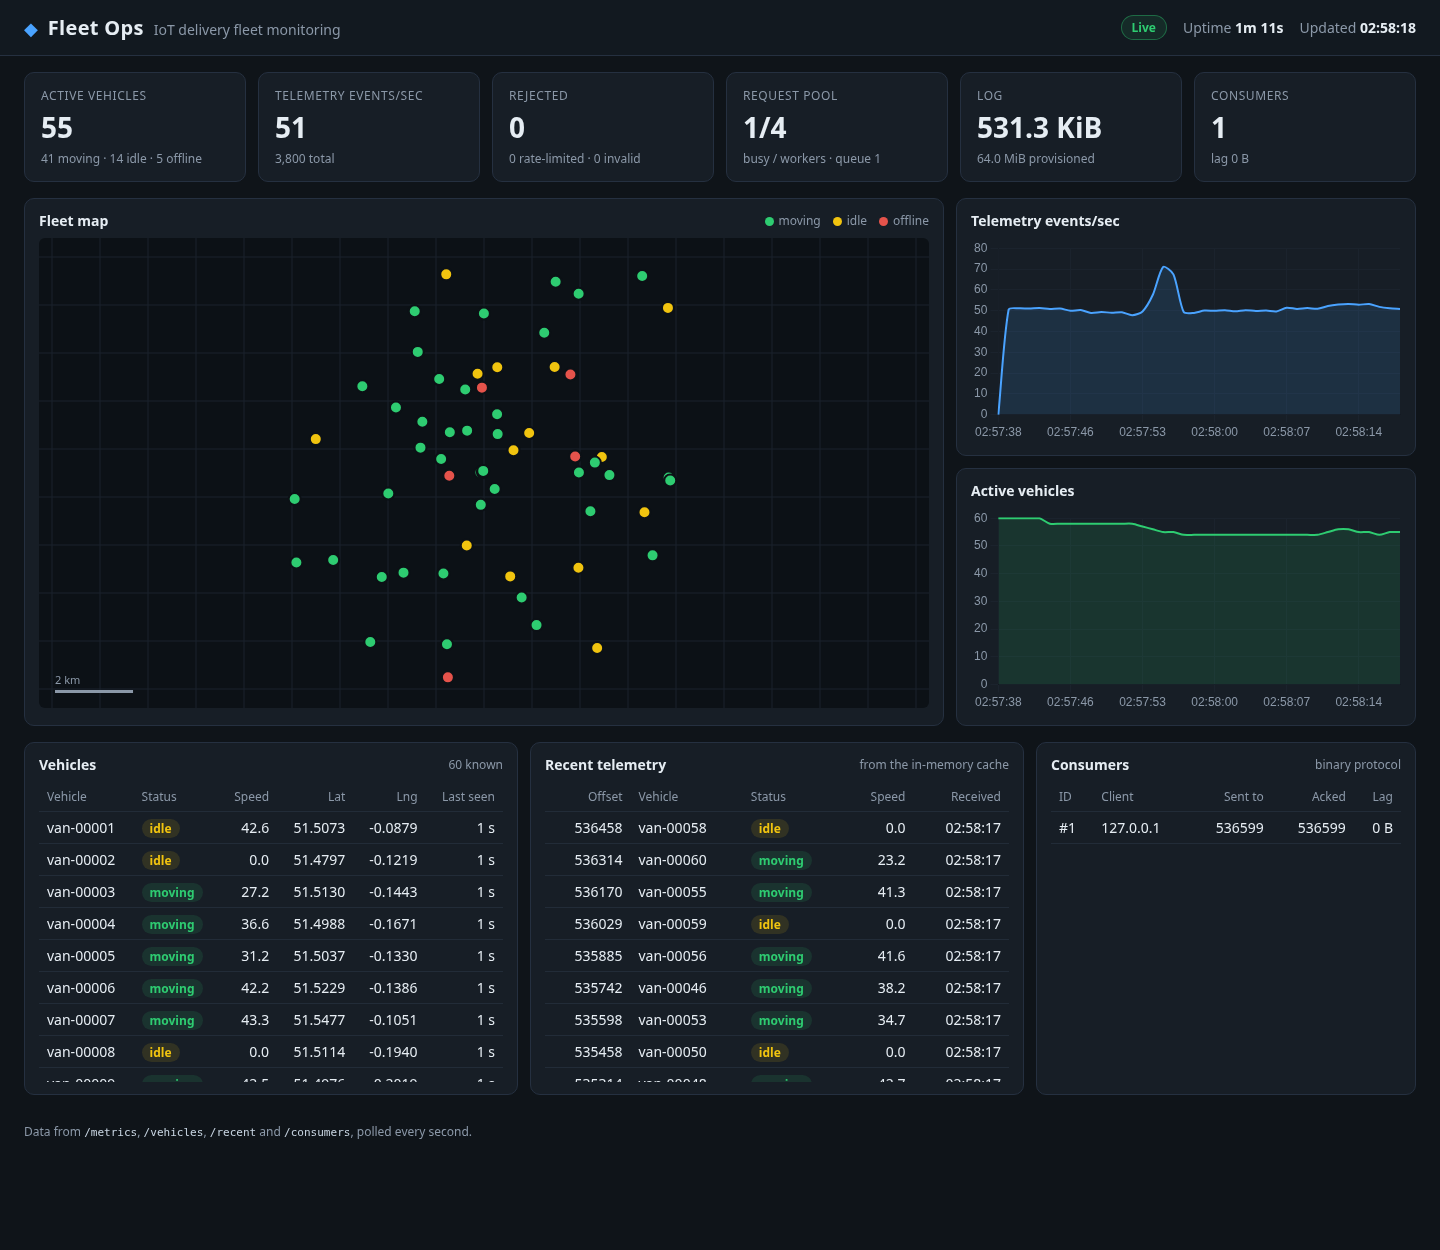
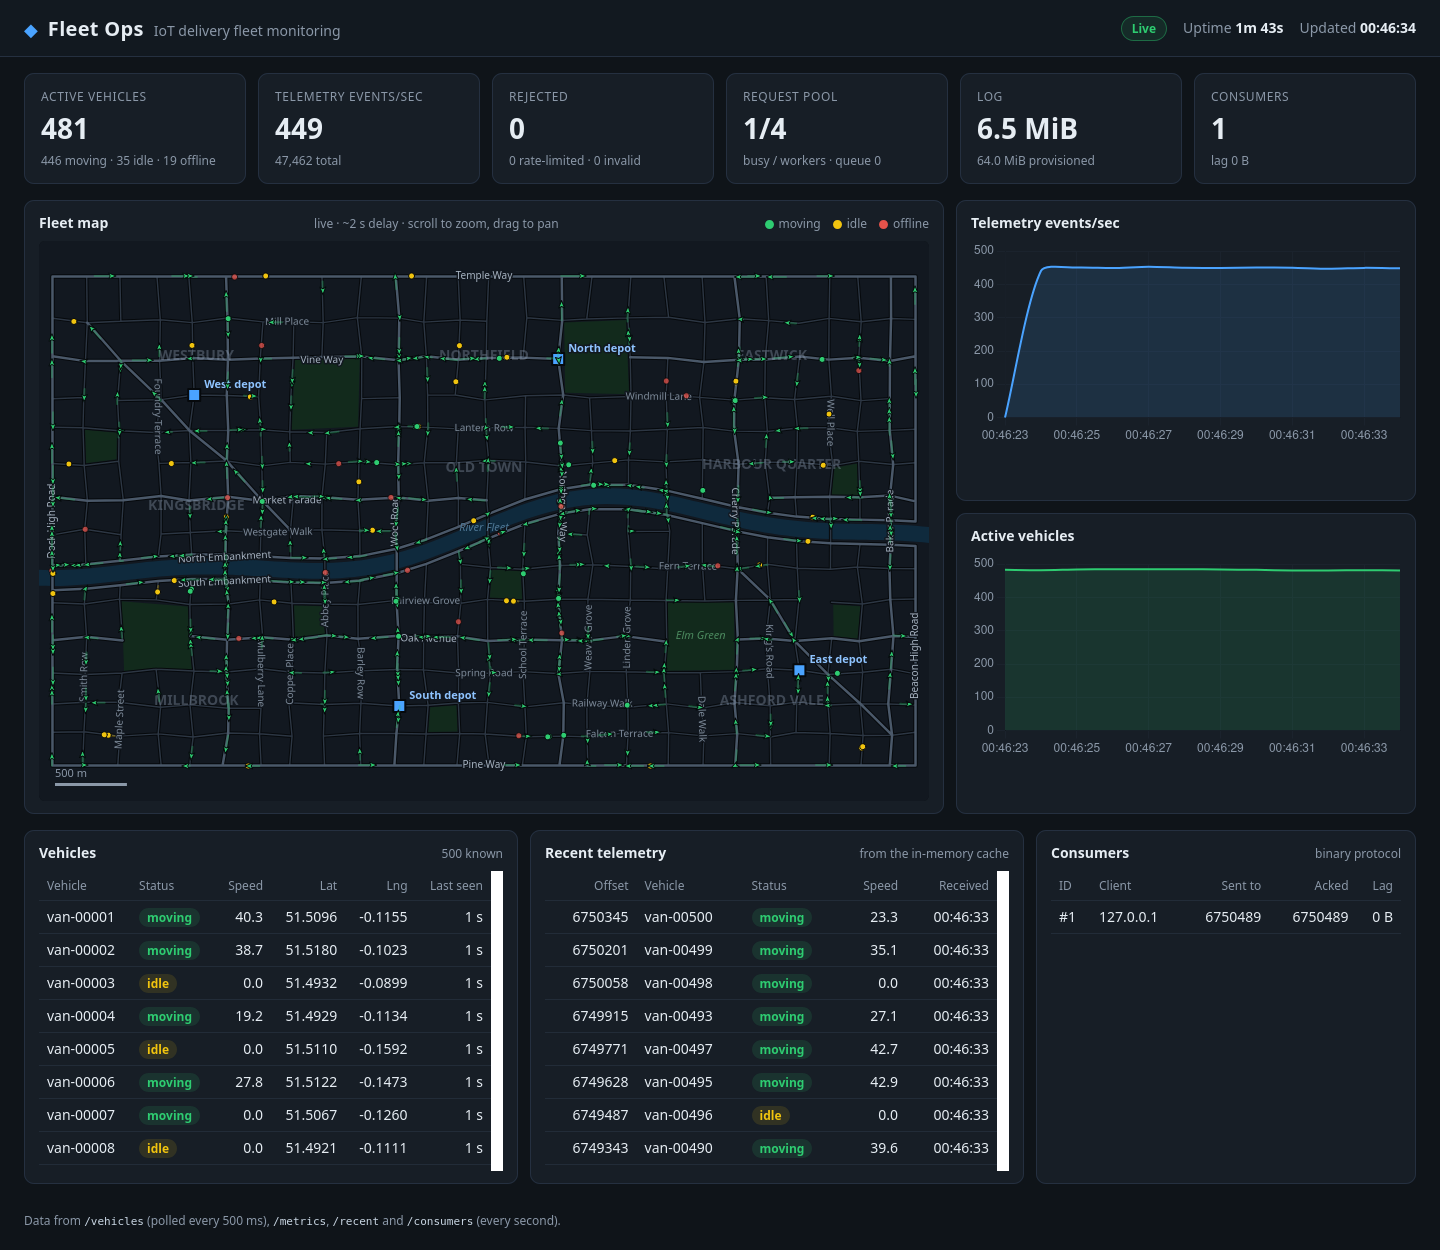
docs: refresh README for the city simulation
New dashboard screenshot of 500 vans on the city map, a zoomed-in map image, and README intro, highlights and repository layout updated for the road-based simulation.

diff --git a/README.md b/README.md
@@ -7,8 +7,10 @@
 A live telemetry platform for delivery vans, built from scratch in C++17 on
 Linux. Vans publish position and status over HTTP. The gateway validates each
 report and appends it to a crash-safe log. A built-in dashboard shows the
-fleet on a live map, and downstream services replay or stream every report
-over a binary protocol, resuming exactly where they stopped after a crash.
+fleet live on a zoomable street map, and downstream services replay or stream
+every report over a binary protocol, resuming exactly where they stopped after
+a crash. The included simulator drives hundreds of delivery vans along the
+roads of a fictional city to show it all working.
 
 In design terms, it is a small combination of **Nginx** (an epoll event
 loop per core in front of a worker pool), **Kafka** (a segmented, offset-indexed
@@ -90,12 +92,23 @@ that directory to start from an empty log.
 bucket, 5 tokens/s per IP). Every setting can also be overridden with a CLI
 flag (`./build/message_gateway --help` prints them).
 
-![Fleet Ops dashboard](docs/images/dashboard.png)
+![Fleet Ops dashboard: 500 simulated vans on the city map](docs/images/dashboard.png)
 
-<!-- To refresh: follow How to run above, then capture the browser window. -->
+Zoomed in, each van is an arrow in its lane, gliding between the positions it
+reported:
+
+![Fleet map zoomed in on the river embankment](docs/images/dashboard-zoom.png)
+
+<!-- To refresh: follow How to run above, then capture the browser window
+     (1440 x 1250 for dashboard.png; the map panel at ~9x zoom for
+     dashboard-zoom.png). -->
 
 ## Highlights
 
+- **A live city simulation:** vans drive delivery rounds along the streets of
+  a fictional 6 x 3.4 km city (traffic lights, corners, queues), and the
+  dashboard animates every van smoothly at 60 fps from its real reports, with
+  scroll-to-zoom down to street level
 - **~77,000 validated telemetry events/s** at 1.03 ms P99
   (120-byte events, 100 connections, 4 pool threads, one laptop) ·
   [benchmark report](docs/results.md#6-sustained-throughput-benchmark)
@@ -197,9 +210,12 @@ src/
   storage/     MemoryMappedLog, CircularBuffer
   security/    TokenBucket, RateLimiter
   monitoring/  Prometheus metrics
-dashboard/     Fleet Ops dashboard (HTML/CSS/vanilla JS + Chart.js)
+dashboard/     Fleet Ops dashboard (HTML/CSS/vanilla JS + Chart.js) and
+               city_map.json, the street map shared with the simulator
 python_sdk/    gateway_client package
-examples/      fleet_simulator.py, fleet_consumer.py, replay_vehicle.py
+examples/      fleet_simulator.py (vans on the city roads), fleet_consumer.py,
+               replay_vehicle.py
+scripts/       generate_city_map.py, load-test and integration-test runners
 tests/         C++ unit tests, integration/, chaos/, benchmarks/
 docs/          architecture, protocol, performance results, journal, test reports
 ```
